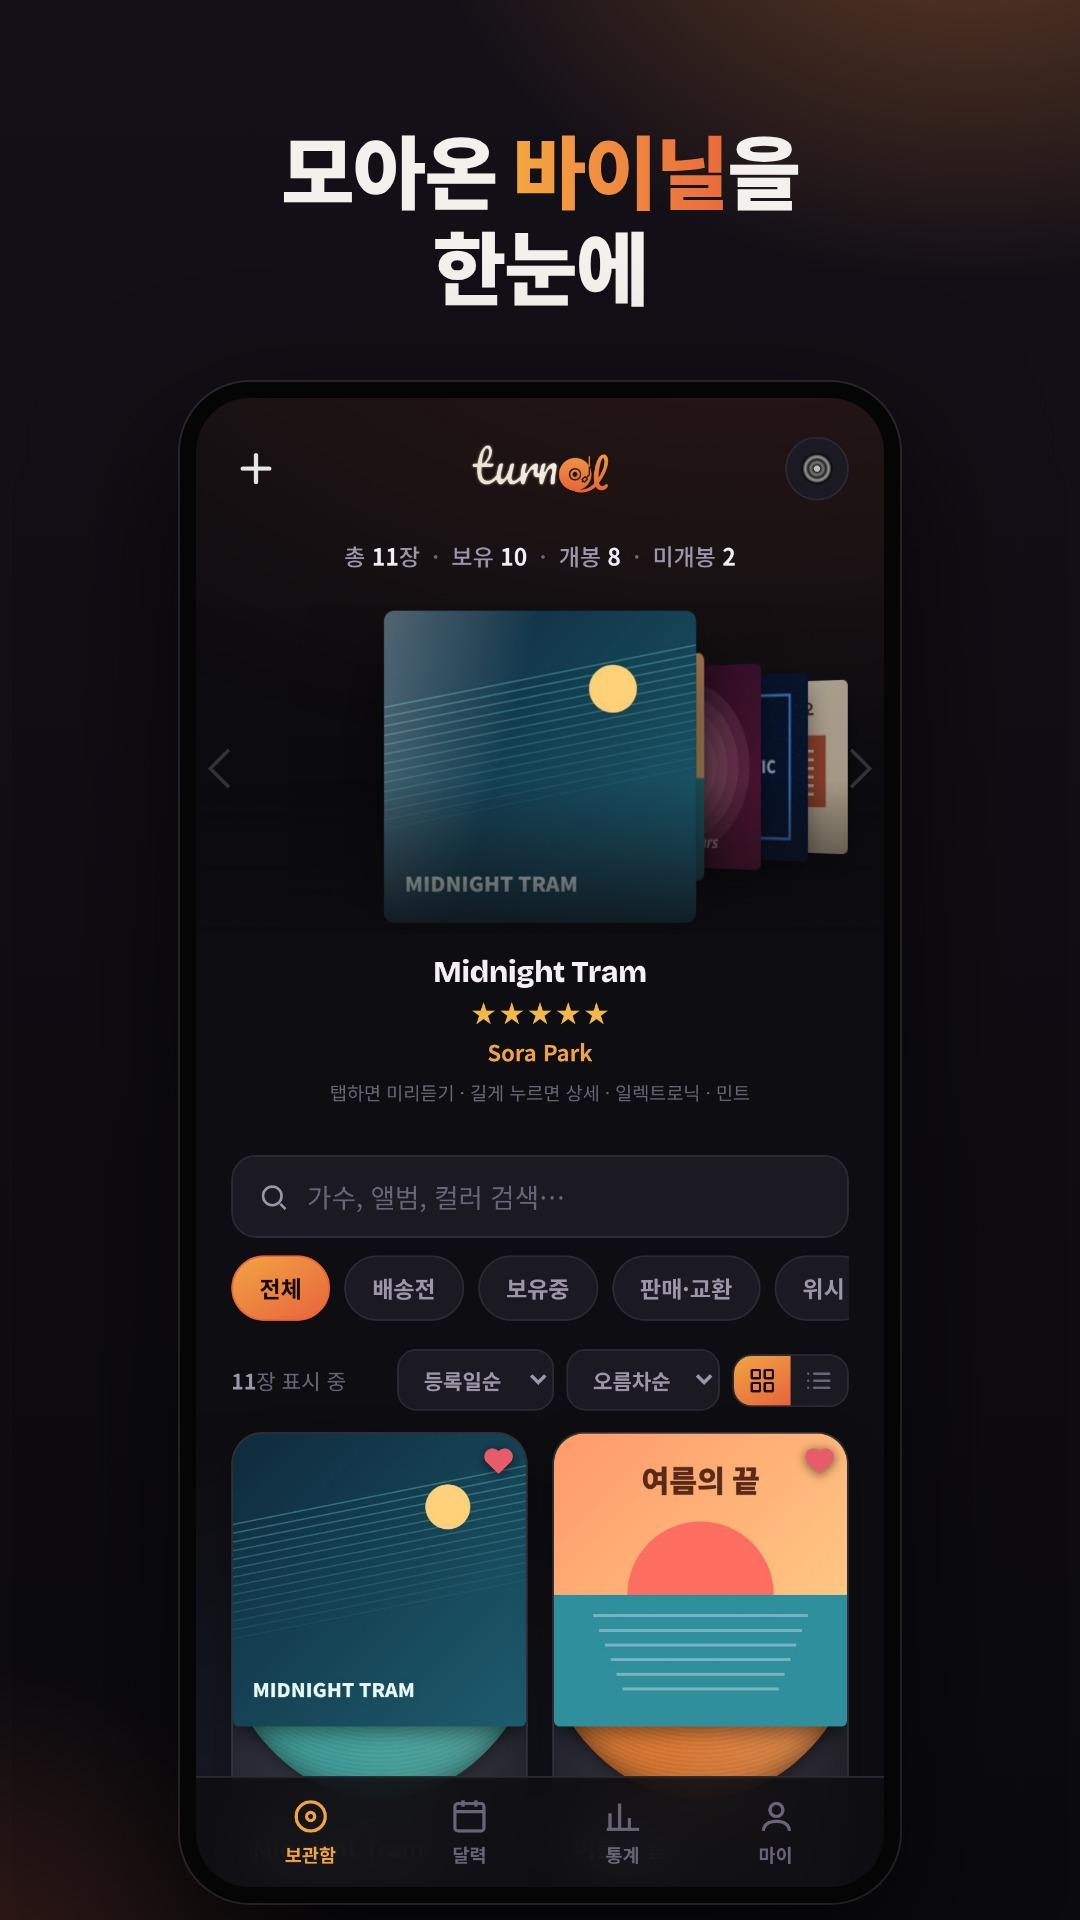
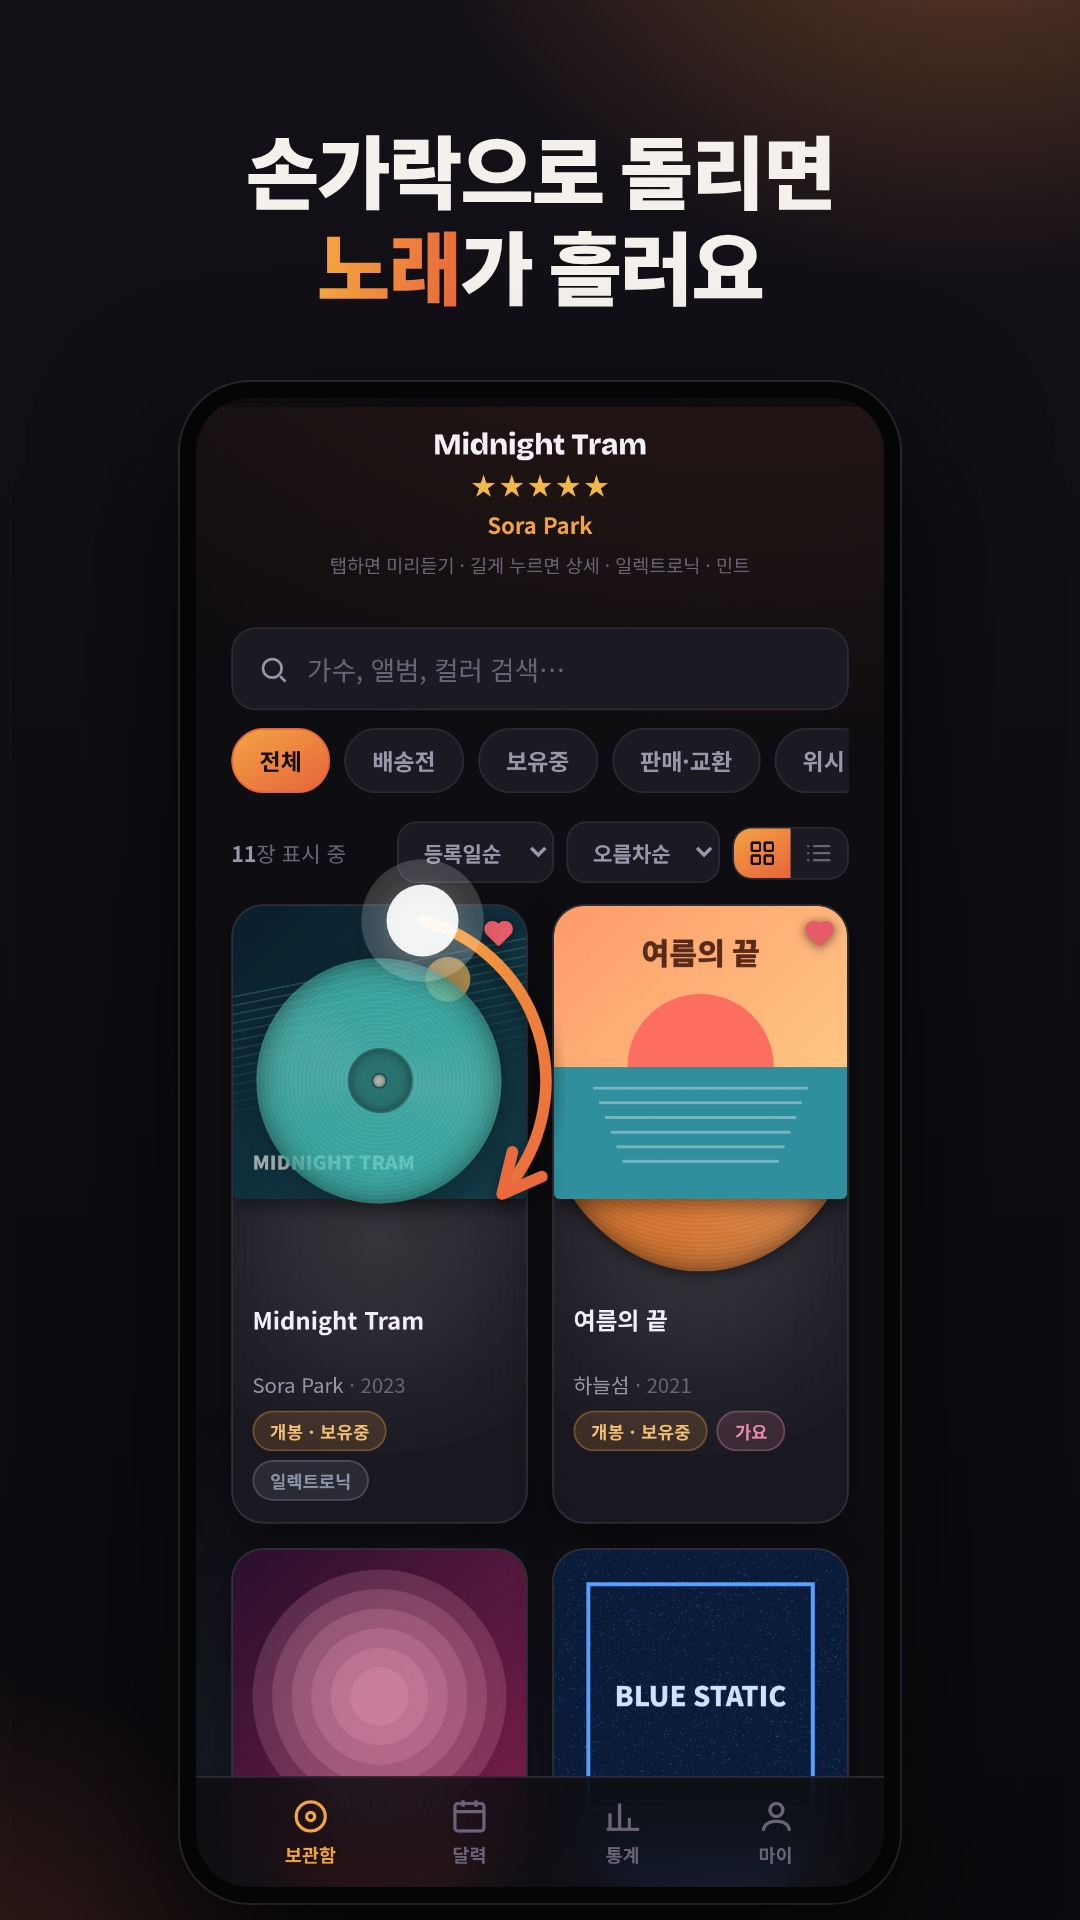
스토어: 손가락으로 돌려 듣기·취향 카드 공유를 앞세운 스크린샷·문구
- 스크린샷 7장으로: 1번 '손가락으로 돌리면 노래가 흘러요'(카드에서 꺼낸 디스크 + 회전 표시),
  5번 '내 취향을 카드로 친구에게 자랑하기'(컬렉션 카드 공유), 통계 문구는 '얼마나 모았는지 한눈에 통계로'
- 짧은 설명·긴 설명·새 기능(한/영)도 두 강점을 맨 앞으로

Claude-Session: https://claude.ai/code/session_01RaKXDuWjQRYDcbkM1oTs7b

diff --git a/STORE.md b/STORE.md
@@ -16,17 +16,20 @@
 |---|---|---|
 | 앱 아이콘 | `icons/icon-512.png` | 512×512 |
 | 플레이 그래픽 이미지(피처) | `store-assets/play/feature-ko.jpg` · `feature-en.jpg` | 1024×500 |
-| 플레이 폰 스크린샷 | `store-assets/play/ko-1~6.jpg` · `en-1~6.jpg` | 1080×1920 (9:16) |
-| 앱스토어 6.7" 스크린샷 | `store-assets/app-store/ko-1~6.jpg` · `en-1~6.jpg` | 1290×2796 |
+| 플레이 폰 스크린샷 | `store-assets/play/ko-1~7.jpg` · `en-1~7.jpg` | 1080×1920 (9:16) |
+| 앱스토어 6.7" 스크린샷 | `store-assets/app-store/ko-1~7.jpg` · `en-1~7.jpg` | 1290×2796 |
 
 스크린샷 순서와 문구(한국어 / 영어):
 
-1. 모아온 **바이닐**을 한눈에 — Your **vinyl**, all in one place (보관함)
-2. 검색 한 번이면 **커버와 노래**까지 — One search finds the **cover & songs** (등록: 이 앨범이 맞나요?)
-3. **디스크 컬러**까지 그대로 — Right down to your **disc color** (등록: 디스크 컬러·투명도·RPM·인치)
-4. **디스크**를 넘기며 미리듣기 — Flip through and **hear** every record (디스크 보기)
-5. 사고, 듣고, **달력**에 남기고 — Every buy and spin on your **calendar** (달력)
-6. 내 **취향**을 숫자로 돌아보기 — See your **taste** in numbers (통계)
+앱의 두 강점(손가락으로 돌려 듣기, 취향 카드 공유)이 먼저 보이도록 1번과 5번에 두었습니다.
+
+1. 손가락으로 돌리면 **노래**가 흘러요 — **Spin** the disc to play the music (보관함 카드에서 꺼낸 디스크 + 회전 표시)
+2. 모아온 **바이닐**을 한눈에 — Your **vinyl**, all in one place (보관함)
+3. 검색 한 번이면 **커버와 노래**까지 — One search finds the **cover & songs** (등록: 이 앨범이 맞나요?)
+4. **디스크 컬러**까지 그대로 — Right down to your **disc color** (등록: 디스크 컬러·투명도·RPM·인치)
+5. 내 **취향**을 카드로 친구에게 자랑하기 — Show off your **taste** with a card (컬렉션 카드 공유)
+6. 사고, 듣고, **달력**에 남기고 — Every buy and spin on your **calendar** (달력)
+7. 얼마나 모았는지 한눈에 **통계**로 — Your collection in **numbers** (통계)
 
 - 스크린샷 속 앨범은 모두 **가상의 앨범과 직접 그린 커버**입니다(실제 앨범 아트 저작권 문제 방지).
 - 다시 만들 때는 같은 데모 데이터로 앱을 띄워 캡처한 뒤 문구를 얹었습니다. 화면이 바뀌면 다시 만들어 주세요.
@@ -43,7 +46,7 @@ Turnit — 내 바이닐 보관함
 
 ### 짧은 설명 (플레이, 80자)
 ```
-앨범을 검색하면 커버와 노래까지. 내 바이닐을 기록하고, 돌려 듣고, 돌아보세요.
+디스크를 손가락으로 돌려 듣고, 내 취향을 카드로 자랑하는 바이닐 보관함.
 ```
 
 ### 부제 (앱스토어, 30자)
@@ -60,7 +63,19 @@ Turnit — 내 바이닐 보관함
 ```
 🎵 Turnit — 돌려 듣는 내 바이닐 보관함
 
-모아온 바이닐을 한 곳에 예쁘게 정리하고, 돌려 듣고, 돌아보세요.
+모아온 바이닐을 한 곳에 예쁘게 정리하고, 손가락으로 돌려 듣고, 내 취향을 친구에게 자랑해 보세요.
+
+■ 손가락으로 돌려 듣는 바이닐
+• 카드에서 디스크를 꺼내 손가락으로 돌리면 노래가 흘러요
+• 시계 방향으로 한 바퀴면 다음 곡, 반대로 돌리면 이전 곡
+• 커버를 탭하면 디스크가 돌며 30초 미리듣기
+• 커버 대신 컬러 디스크로 보는 '디스크 보기'
+• 한국 앨범은 곡 제목도 한국어로
+
+■ 내 취향을 카드로 자랑하기
+• 내 컬렉션·이 달의 기록을 예쁜 카드 이미지로 만들어 바로 공유
+• 테마별 컬렉션을 만들고 링크·카카오톡으로 공유
+• 좋아요한 앨범만 모아 공유하기
 
 ■ 검색 한 번이면 끝나는 등록
 • 앨범을 검색하거나 뒷면 바코드를 찍으면 커버와 노래를 자동으로 찾아줘요
@@ -69,22 +84,11 @@ Turnit — 내 바이닐 보관함
 • 등록하는 동안 그 앨범 노래가 흘러요
 • 원하는 커버가 없으면 사진으로 직접 등록
 
-■ 돌려 듣는 재미
-• 커버를 탭하면 디스크가 돌며 30초 미리듣기
-• 디스크를 손가락으로 돌리면 다음 곡·이전 곡
-• 커버 대신 컬러 디스크로 보는 '디스크 보기'
-• 한국 앨범은 곡 제목도 한국어로
-
 ■ 기록하고 돌아보기
 • 달력: 구매·도착·개봉·청음 기록을 날짜별 커버로
 • 통계: 별점, 자주 간 구매처, 장르, 가장 많이 들은 앨범
-• 이 달의 기록·취향 카드를 이미지로 만들어 공유
 • 미개봉·개봉·배송 전·위시·판매/교환까지 상태별 관리
 • 같은 앨범을 또 샀다면 정보 그대로 '같은 앨범 추가'
-
-■ 함께 즐기기
-• 테마별 컬렉션을 만들고 링크·카카오톡으로 공유
-• 좋아요한 앨범 모아 공유하기
 
 ■ 편리하게
 • 이메일·구글 로그인으로 기기가 바뀌어도 그대로 (클라우드 동기화)
@@ -104,9 +108,10 @@ Turnit — 내 바이닐 보관함
 ### 이번 버전 새 기능 (첫 출시용)
 ```
 Turnit 첫 버전이에요 🎉
+• 디스크를 손가락으로 돌려 듣는 미리듣기
+• 내 컬렉션을 카드로 만들어 친구에게 공유
 • 검색·바코드로 커버와 노래를 찾아주는 단계형 등록
-• 디스크 컬러·사진·RPM·인치까지 그대로 기록
-• 30초 미리듣기, 달력, 통계, 컬렉션 공유
+• 달력과 통계로 돌아보는 내 수집 기록
 ```
 
 ---
@@ -120,7 +125,7 @@ Turnit — My Vinyl Shelf
 
 ### Short description (Play, 80)
 ```
-Search an album to get its cover and songs. Log, spin and revisit your vinyl.
+Spin your vinyl with a finger to play it, and share your taste as a card.
 ```
 
 ### Subtitle (App Store, 30)
@@ -137,7 +142,18 @@ vinyl,record,LP,turntable,collection,album,collector,barcode,music log,crate,rec
 ```
 🎵 Turnit — your vinyl collection, ready to spin
 
-Keep every record you own in one beautiful place, give it a spin, and look back on what you've collected.
+Keep every record you own in one beautiful place, spin it with your finger to listen, and show off your taste to friends.
+
+■ Spin it with your finger
+• Pull the disc out of a card and spin it — the music starts playing
+• One turn clockwise for the next track, counter-clockwise for the previous one
+• Tap a cover and the disc turns with a 30-second preview
+• Disc view shows your colored discs instead of covers
+
+■ Show off your taste
+• Turn your collection or your month into a beautiful card and share it
+• Build themed collections and share them by link
+• Share the albums you like
 
 ■ Add a record in seconds
 • Search an album or scan the barcode on the back — Turnit finds the cover and the songs
@@ -146,21 +162,11 @@ Keep every record you own in one beautiful place, give it a spin, and look back 
 • The album plays while you add it
 • No matching cover? Use your own photo
 
-■ Listen like you're spinning it
-• Tap a cover and the disc turns with a 30-second preview
-• Spin the record with your finger for the next or previous track
-• Disc view shows your colored discs instead of covers
-
 ■ Log it and look back
 • Calendar: purchases, arrivals, openings and listens shown as covers by date
 • Stats: ratings, favorite stores, genres and most-played albums
-• Turn your month or your taste into a shareable card
 • Track sealed, opened, on the way, wishlist and sold/traded records
 • Bought another copy? "Add the same album" copies everything over
-
-■ Share with friends
-• Build themed collections and share them by link
-• Share the albums you like
 
 ■ Made easy
 • Sign in with email or Google — your shelf syncs across devices
@@ -175,9 +181,10 @@ Privacy policy: https://lp-archive.web.app/privacy.html
 ### What's new (first release)
 ```
 Welcome to Turnit 🎉
+• Spin the disc with your finger to play the music
+• Share your collection as a card
 • Step-by-step adding with search and barcode
-• Log your disc's color, photo, RPM and size
-• 30-second previews, calendar, stats and shareable collections
+• Look back with a calendar and stats
 ```
 
 ---
